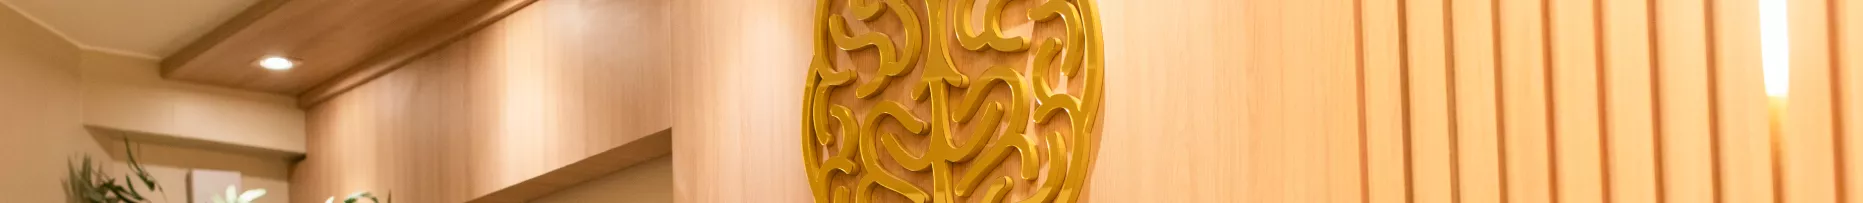
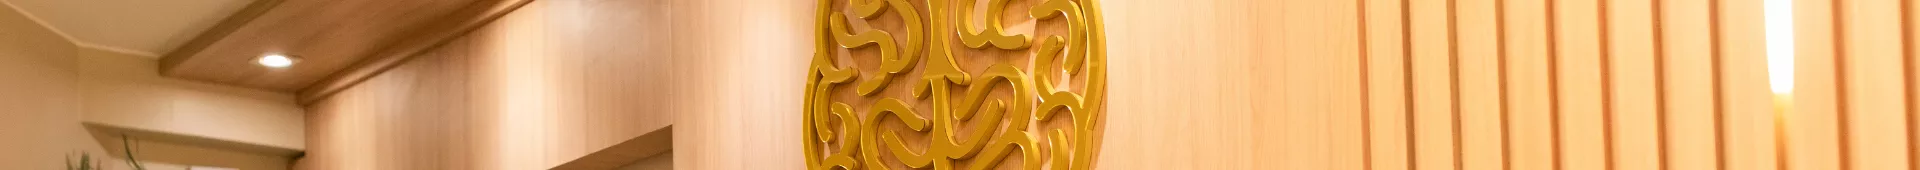
style: formatacao de alguns estilos e imagens

diff --git a/src/pages/Home/index.tsx b/src/pages/Home/index.tsx
@@ -11,19 +11,19 @@ export default function Home(){
             <div className=" flex flex-col gap-6 max-w-[1920px] 3xl:justify-self-center">
                 <section className="w-full">
                     <div className="w-auto relative">
-                        <img className="block w-full h-[350px] sm:h-[860px] object-cover object-center sm:object-top" src="/images/fotoPrincipal.webp" alt="foto" />
-                        <div className="absolute inset-0 bg-gradient-to-t from-degrade-cinza from-20% via-degrade-cinza-transparente via-40% to-transparent to-65%"></div>
+                        <img className="block w-full h-[350px] sm:h-[800px] object-cover object-center sm:object-top" src="/images/fotoPrincipal.webp" alt="foto" />
+                        <div className="absolute inset-0 bg-gradient-to-t from-degrade-cinza from-40% sm:from-20% via-degrade-cinza-transparente via-55% sm:via-40% to-transparent to-65%"></div>
                         <div className="flex flex-col absolute inset-x-0 bottom-0 md:mb-30 gap-5 items-center mx-4 md:mx-0">
                             <div className="w-full h-auto flex flex-col md:flex-row justify-center items-center md:gap-9 gap-1">
                                 <img className="w-40 sm:w-40 md:w-45 lg:w-50 h-auto" src="/images/logoVertical.webp" alt=" Logo Vertical da empresa"/>
-                                <a className="md:border-2 h-0 md:h-70 border-white"></a>
+                                <a className="md:border-2 h-0 md:h-50 border-white"></a>
                                 <div className="w-auto max-w-170 flex flex-col gap-3 text-white items-center md:items-start text-center md:text-start">
                                     <h1 className="md:max-w-90 max-w-100 whitespace-normal text-cards leading-4.5 sm:leading-5 md:leading-5 font-bold">TERAPIA OCUPACIONAL E REABILITAÇÃO NEUROCOGNITIVA</h1>
                                     <p className="md:max-w-130 max-w-100 text-medio leading-4.5 sm:leading-5 md:leading-8 font-bold text-dourado-base md:mb-4"> RECUPERE A QUALIDADE DE VIDA E AUTONOMIA</p>
-                                    <p className="md:max-w-none max-w-100 text-xs sm:text-base lg:text-lg border rounded-4xl text-center border-dourado-base px-1">Especializada para Adultos e Idosos em Brasilia</p>
+                                    <p className="md:max-w-none max-w-100 text-xs sm:text-base lg:text-lg border rounded-4xl text-center border-dourado-base px-2">Especializada para Adultos e Idosos em Brasilia</p>
                                 </div>
                             </div>
-                            <Button className="">Agendar Avaliacao</Button>
+                            <Button className="">AGENDAR AVALIACAO</Button>
                         </div>
                         <div className="w-full h-50 sm:h-20 bg-degrade-cinza"></div>
                     </div>
@@ -41,19 +41,19 @@ export default function Home(){
                             <Servicos></Servicos>
                         </div>
                     </div>
-                    <div className="relative w-full h-[130px] content-center self-center block bg-[url('/images/agendamento.webp')] bg-no-repeat bg-center bg-cover sm:bg-auto">
+                    <div className="relative w-full h-[170px] content-center self-center block bg-[url('/images/agendamento.webp')] bg-no-repeat bg-center bg-cover sm:bg-auto">
                         <div className="absolute inset-0 bg-[rgba(207,163,91,1)] opacity-60 z-0"></div>
                         <div className="w-full text-white md:max-w-7/10 lg:max-w-6/10 xl:max-w-4/10 relative flex flex-col gap-3 items-center text-center justify-self-center z-10">
-                            <p className="text-xs xs:text-sm mx-8 xs:mx-11 font-bold">AGENDE UMA AVALIAÇÃO E DESCUBRA COMO A TERAPIA OCUPACIONAL PODE TRANSFORMAR SUA VIDA!</p>
-                            <Button className="">Agendar Avaliacao</Button>
+                            <p className="text-cards mx-8 xs:mx-11 font-bold">AGENDE UMA AVALIAÇÃO E DESCUBRA COMO A TERAPIA OCUPACIONAL PODE TRANSFORMAR SUA VIDA!</p>
+                            <Button className="">AGENDAR AVALIACAO</Button>
                         </div>                        
                     </div>
                 </section>
                 <section className="w-full">
-                    <div className="flex flex-row md:flex-row justify-center">
-                        <div className="">
-                            <NossoAtendimento></NossoAtendimento>
-                        </div>
+                    <div className="flex flex-col items-center gap-5">
+                        <p className="max-w-[450px] text-medio font-bold leading-4.5 sm:leading-5 md:leading-8 text-center text-azul-base">COMO FUNCIONA NOSSO ATENDIMENTO</p>
+                        <NossoAtendimento></NossoAtendimento>
+                        <Button>QUERO SABER MAIS</Button>
                     </div>
                 </section>
             </div>

diff --git a/src/components/Button/index.tsx b/src/components/Button/index.tsx
@@ -9,7 +9,7 @@ import React from 'react';
 type ButtonProps = React.ComponentPropsWithoutRef<"button"> // dessa forma ele aceita todos os atributos nativos de um button
 
 const Button = ({children, onClick}: ButtonProps) => {  
-  return <button type="button" onClick={onClick} className="text-xl sm:text-2xl bg-botao-wpp hover:bg-[#099656] text-white font-bold py-1 px-4 rounded-4xl focus:outline-none focus:shadow-outline shadow-xl/20">{children}</button>
+  return <button type="button" onClick={onClick} className="text-button bg-botao-wpp hover:bg-[#099656] text-white font-bold py-1 px-4 rounded-4xl focus:outline-none focus:shadow-outline shadow-xl/20">{children}</button>
 ;
 };
 

diff --git a/src/components/Carrossel/items.tsx b/src/components/Carrossel/items.tsx
@@ -19,7 +19,7 @@ export default function CarrosselItem({carrosselTitulo, carrosselTexto, carrosse
                 <p className="text-white">{carrosselTexto}</p>
             </div>
             <div className="flex justify-center my-2.5">
-            <Button className="">Saiba Mais</Button>
+            <Button className="">SAIBA MAIS</Button>
             </div>
         </div>
 

diff --git a/src/app.css b/src/app.css
@@ -12,6 +12,12 @@
     --breakpoint-xs: 425px;
 }
 
+@utility text-button {
+  font-size: var(--text-lg);
+
+  @variant sm { font-size: var(--text-xl); }
+}
+
 @utility text-titulo-cards {
   font-size: var(--text-xl);
 
